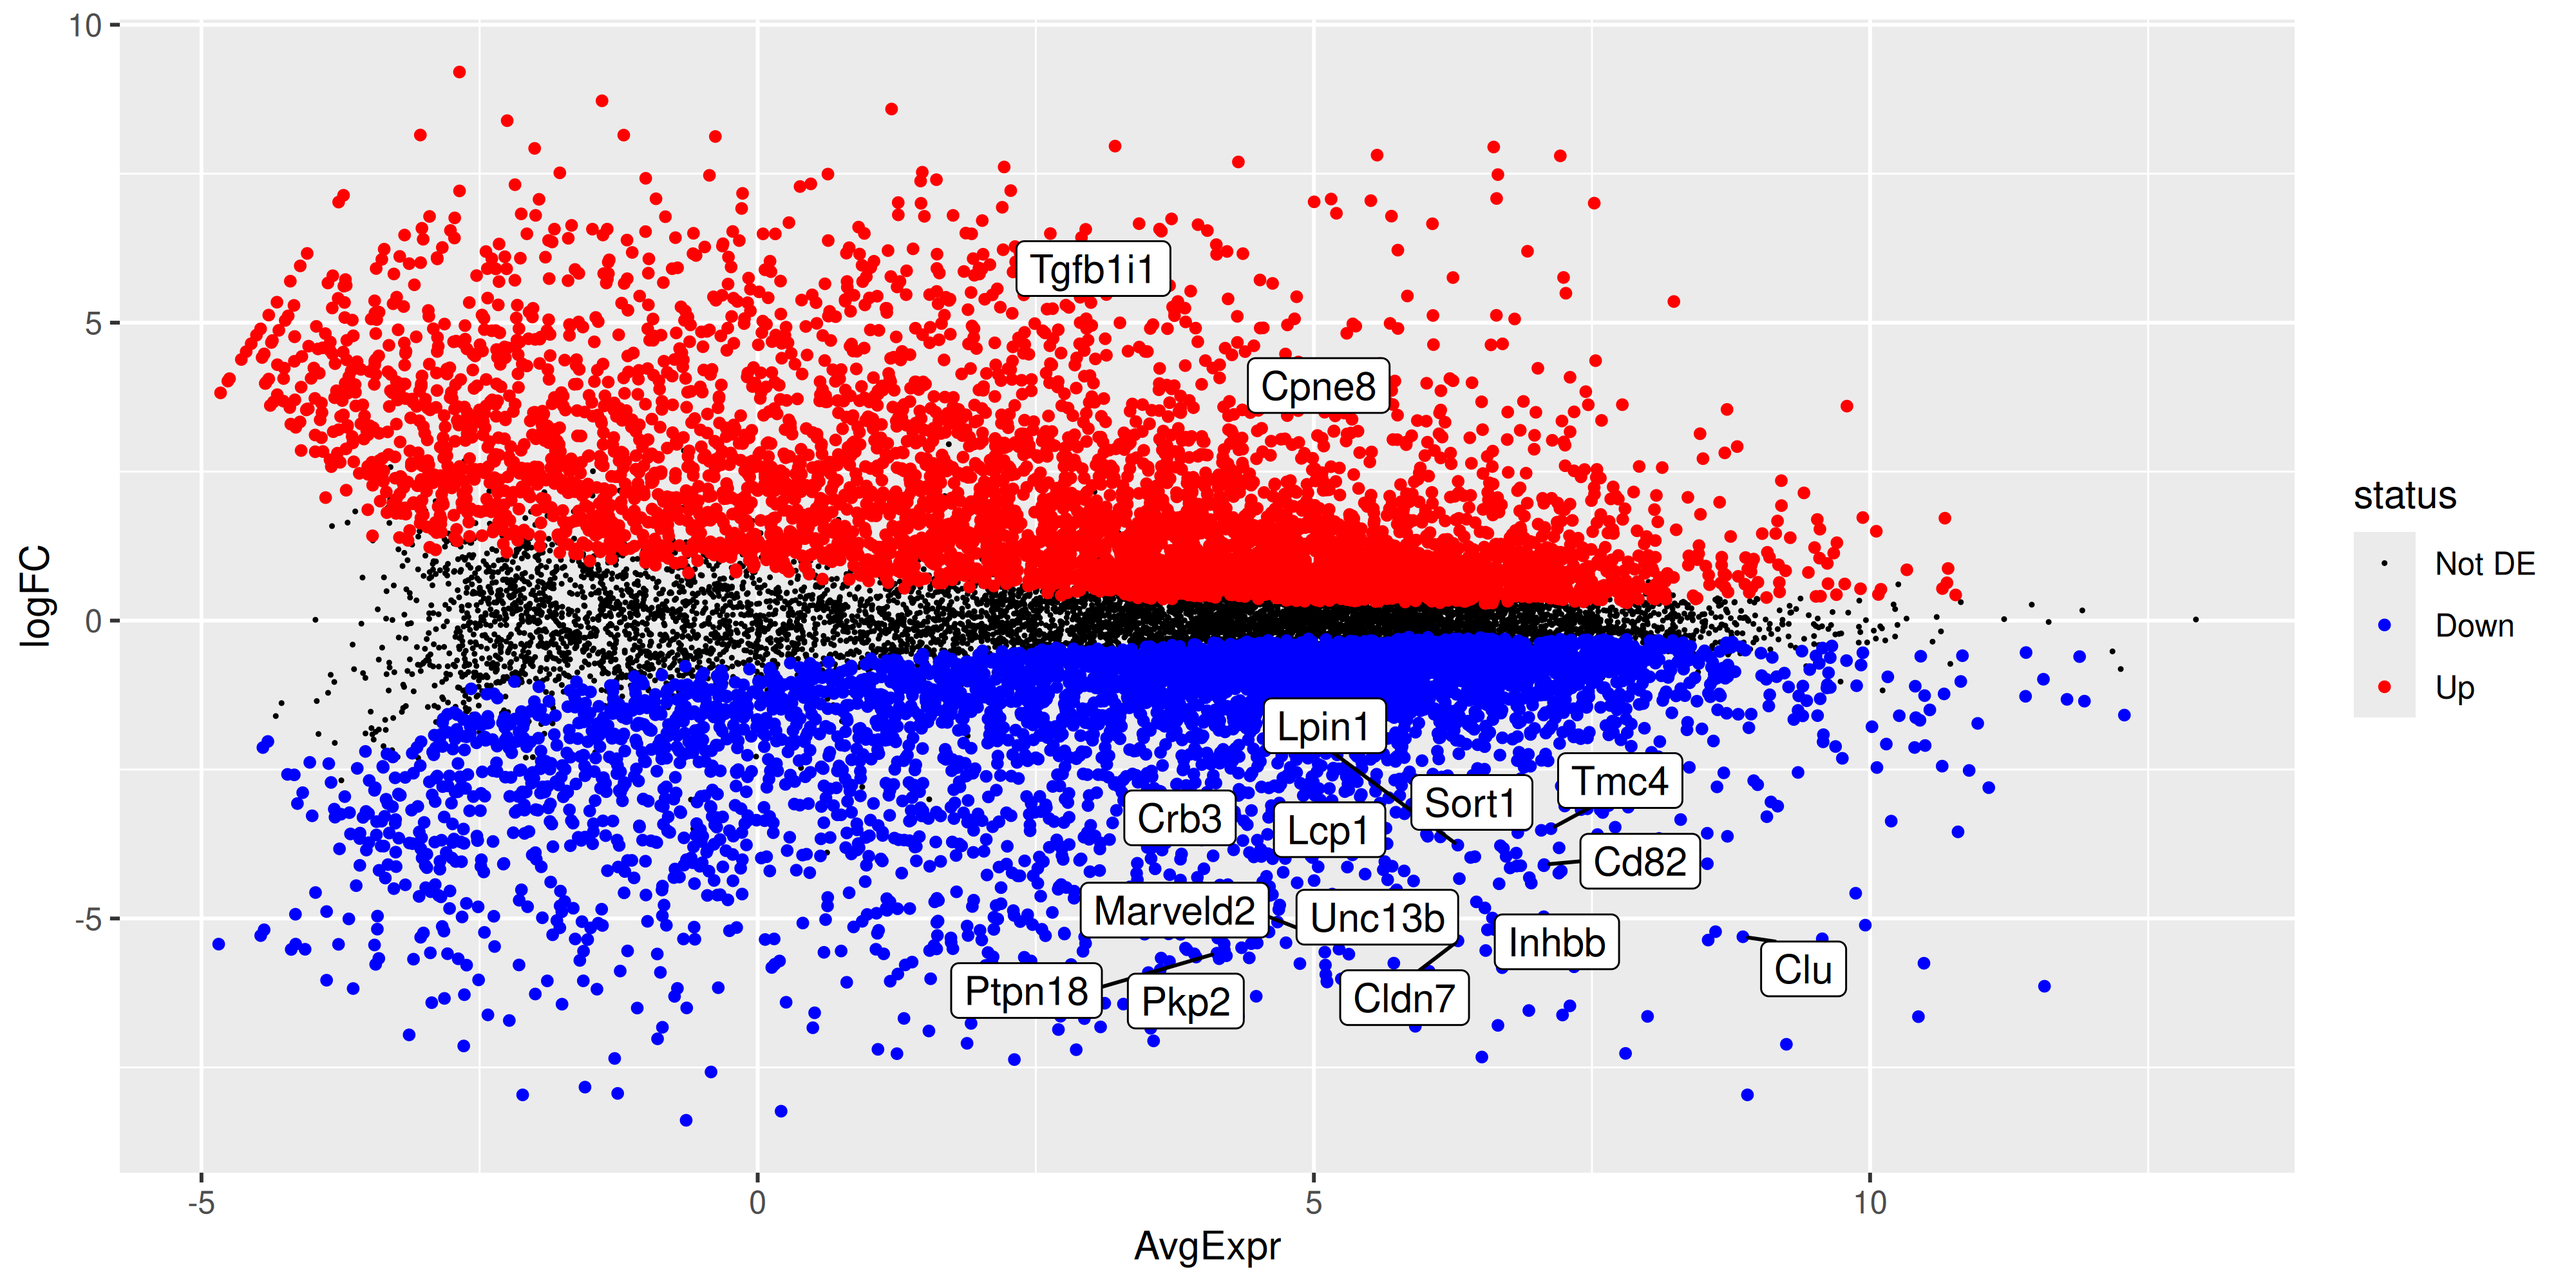
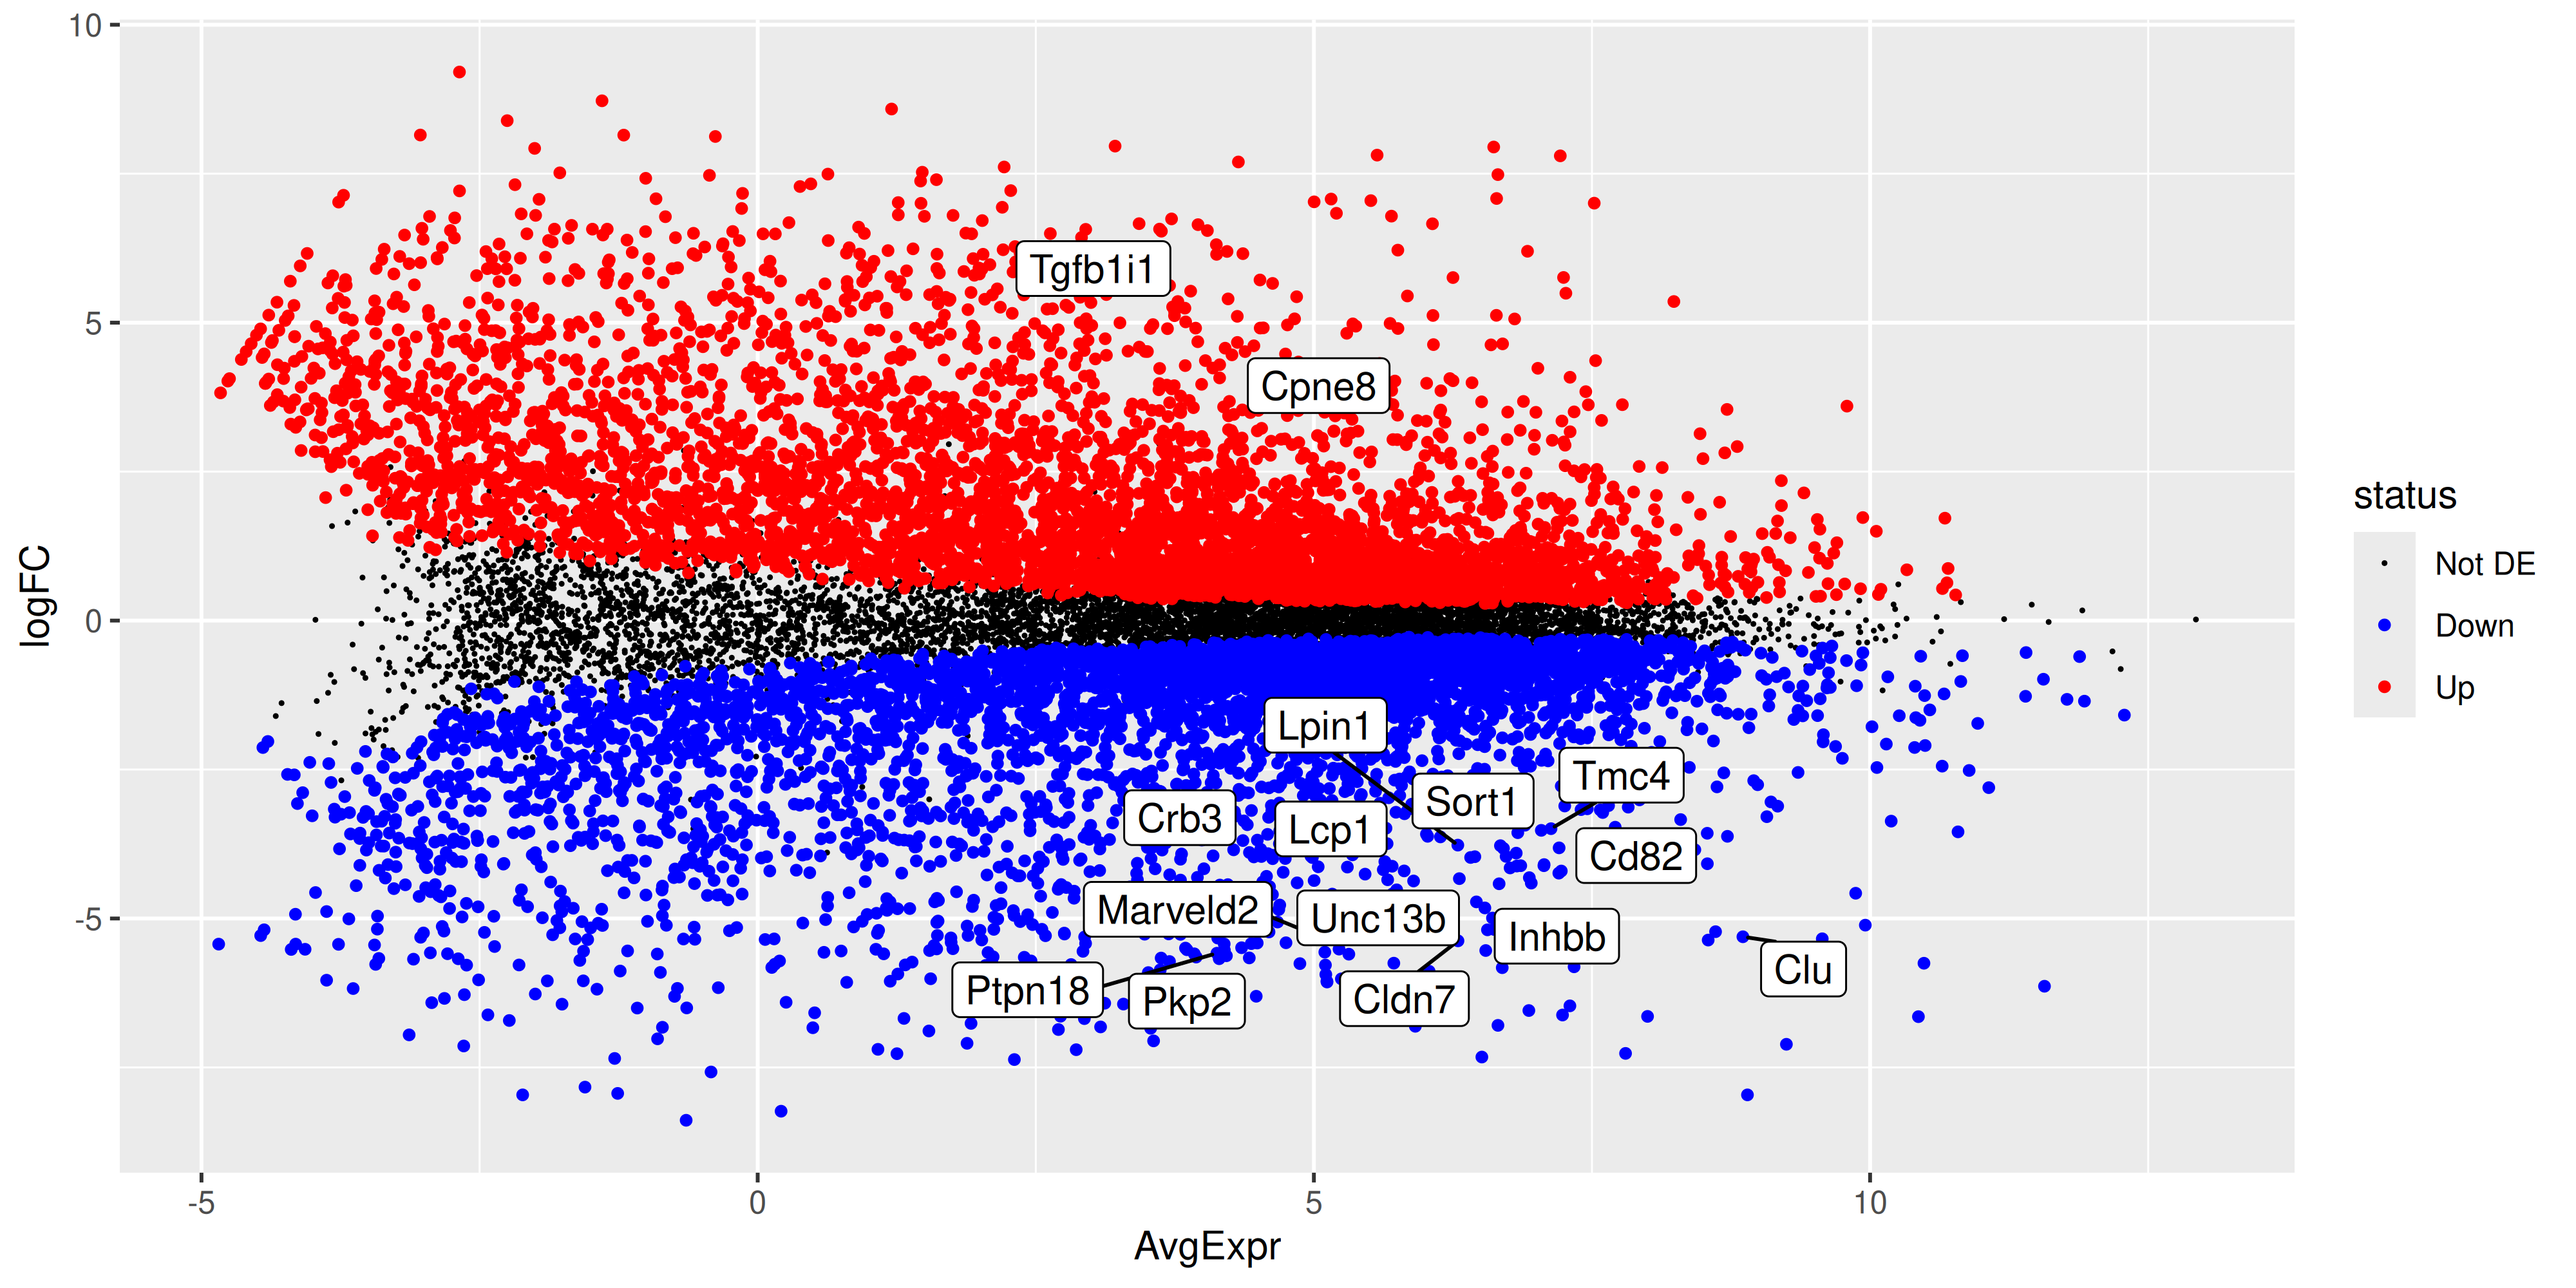
Publish 2026 36eb909a21fd20ef51496caad5436be4f218cf66

Changed region(s): [[0.375, 0.558, 0.6562, 0.806], [0.6875, 0.744, 0.7188, 0.775], [0.5, 0.558, 0.5312, 0.589]]

diff --git a/2026/1_content.html b/2026/1_content.html
@@ -1231,7 +1231,7 @@ $y
 <div class="code-copy-outer-scaffold"><div class="sourceCode cell-code" id="cb59"><pre class="sourceCode r code-with-copy"><code class="sourceCode r"><span id="cb59-1"><a href="#cb59-1" aria-hidden="true" tabindex="-1"></a><span class="fu">library</span>(ggrepel)</span>
 <span id="cb59-2"><a href="#cb59-2" aria-hidden="true" tabindex="-1"></a><span class="fu">ggplot</span>(mds_tibble, <span class="fu">aes</span>(<span class="at">x =</span> x, <span class="at">y =</span> y, <span class="at">col =</span> group)) <span class="sc">+</span></span>
 <span id="cb59-3"><a href="#cb59-3" aria-hidden="true" tabindex="-1"></a>  <span class="fu">geom_point</span>() <span class="sc">+</span></span>
-<span id="cb59-4"><a href="#cb59-4" aria-hidden="true" tabindex="-1"></a>  <span class="fu">geom_text_repel</span>(<span class="fu">aes</span>(<span class="at">label =</span> sample)) <span class="sc">+</span></span>
+<span id="cb59-4"><a href="#cb59-4" aria-hidden="true" tabindex="-1"></a>  <span class="fu">geom_text_repel</span>(<span class="fu">aes</span>(<span class="at">label =</span> sample), <span class="at">show.legend =</span> <span class="cn">FALSE</span>) <span class="sc">+</span></span>
 <span id="cb59-5"><a href="#cb59-5" aria-hidden="true" tabindex="-1"></a>  <span class="fu">labs</span>(</span>
 <span id="cb59-6"><a href="#cb59-6" aria-hidden="true" tabindex="-1"></a>    <span class="at">x =</span> <span class="fu">paste0</span>(<span class="st">"Leading logFC dim 1 "</span>, <span class="st">"("</span>, dim1_var_explained, <span class="st">"%)"</span>),</span>
 <span id="cb59-7"><a href="#cb59-7" aria-hidden="true" tabindex="-1"></a>    <span class="at">y =</span> <span class="fu">paste0</span>(<span class="st">"Leading logFC dim 2 "</span>, <span class="st">"("</span>, dim2_var_explained, <span class="st">"%)"</span>)</span>
@@ -2477,7 +2477,7 @@ $y
 <span id="cb68-703"><a href="#cb68-703" aria-hidden="true" tabindex="-1"></a><span class="fu">library</span>(ggrepel)</span>
 <span id="cb68-704"><a href="#cb68-704" aria-hidden="true" tabindex="-1"></a><span class="fu">ggplot</span>(mds_tibble, <span class="fu">aes</span>(<span class="at">x =</span> x, <span class="at">y =</span> y, <span class="at">col =</span> group)) <span class="sc">+</span></span>
 <span id="cb68-705"><a href="#cb68-705" aria-hidden="true" tabindex="-1"></a>  <span class="fu">geom_point</span>() <span class="sc">+</span></span>
-<span id="cb68-706"><a href="#cb68-706" aria-hidden="true" tabindex="-1"></a>  <span class="fu">geom_text_repel</span>(<span class="fu">aes</span>(<span class="at">label =</span> sample)) <span class="sc">+</span></span>
+<span id="cb68-706"><a href="#cb68-706" aria-hidden="true" tabindex="-1"></a>  <span class="fu">geom_text_repel</span>(<span class="fu">aes</span>(<span class="at">label =</span> sample), <span class="at">show.legend =</span> <span class="cn">FALSE</span>) <span class="sc">+</span></span>
 <span id="cb68-707"><a href="#cb68-707" aria-hidden="true" tabindex="-1"></a>  <span class="fu">labs</span>(</span>
 <span id="cb68-708"><a href="#cb68-708" aria-hidden="true" tabindex="-1"></a>    <span class="at">x =</span> <span class="fu">paste0</span>(<span class="st">"Leading logFC dim 1 "</span>, <span class="st">"("</span>, dim1_var_explained, <span class="st">"%)"</span>),</span>
 <span id="cb68-709"><a href="#cb68-709" aria-hidden="true" tabindex="-1"></a>    <span class="at">y =</span> <span class="fu">paste0</span>(<span class="st">"Leading logFC dim 2 "</span>, <span class="st">"("</span>, dim2_var_explained, <span class="st">"%)"</span>)</span>
